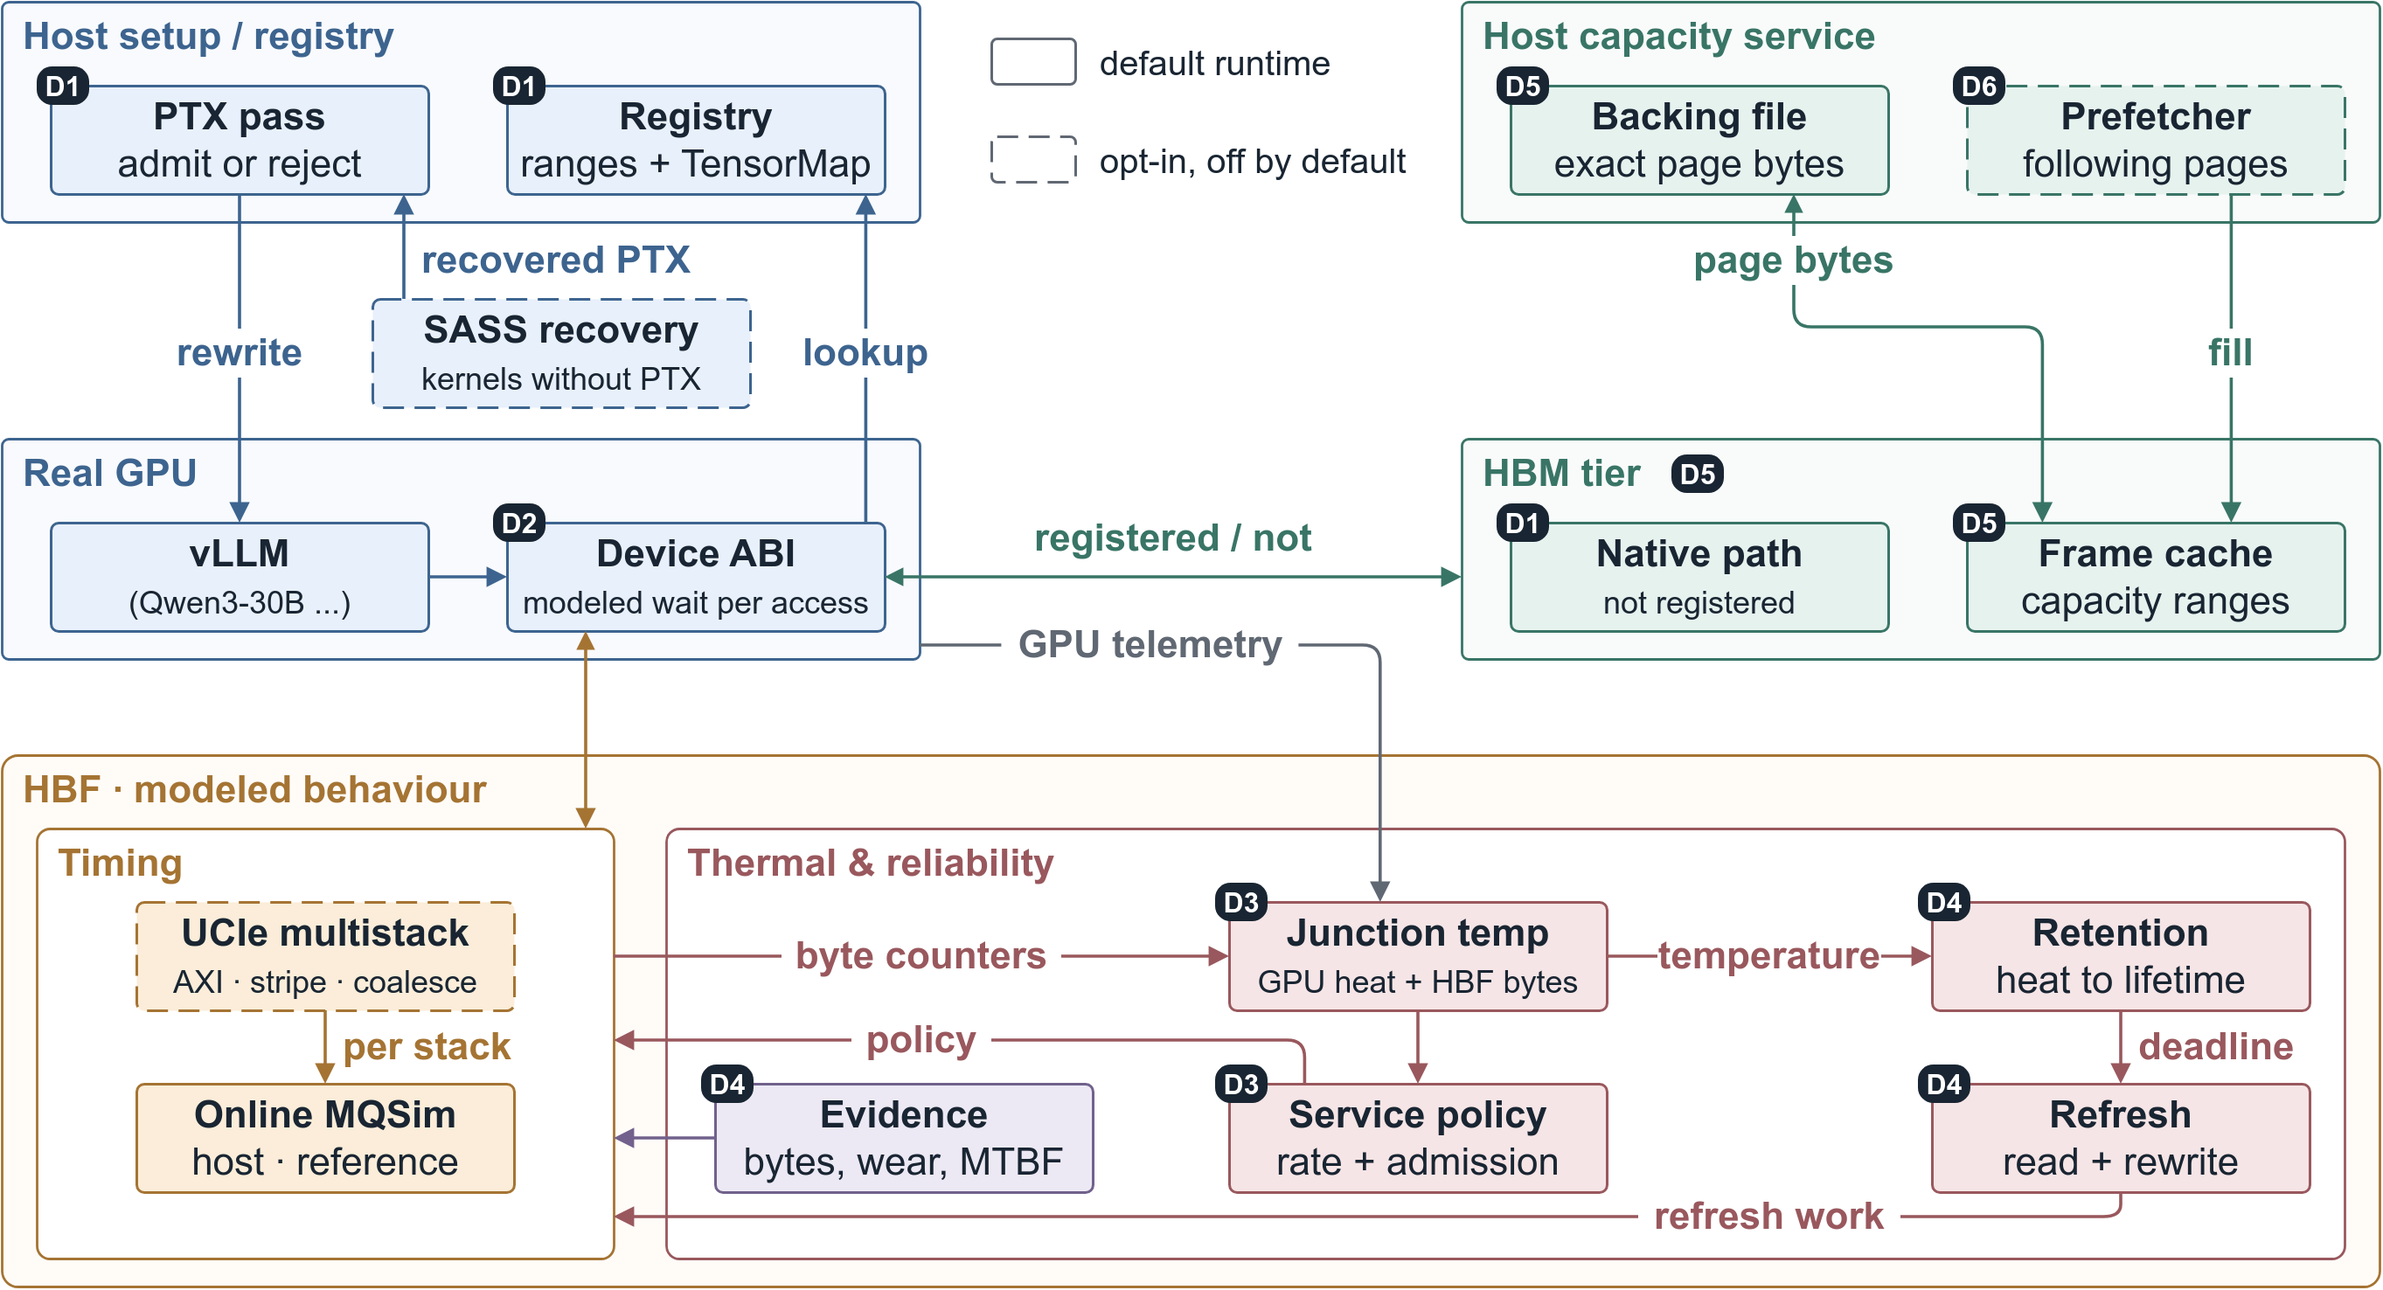
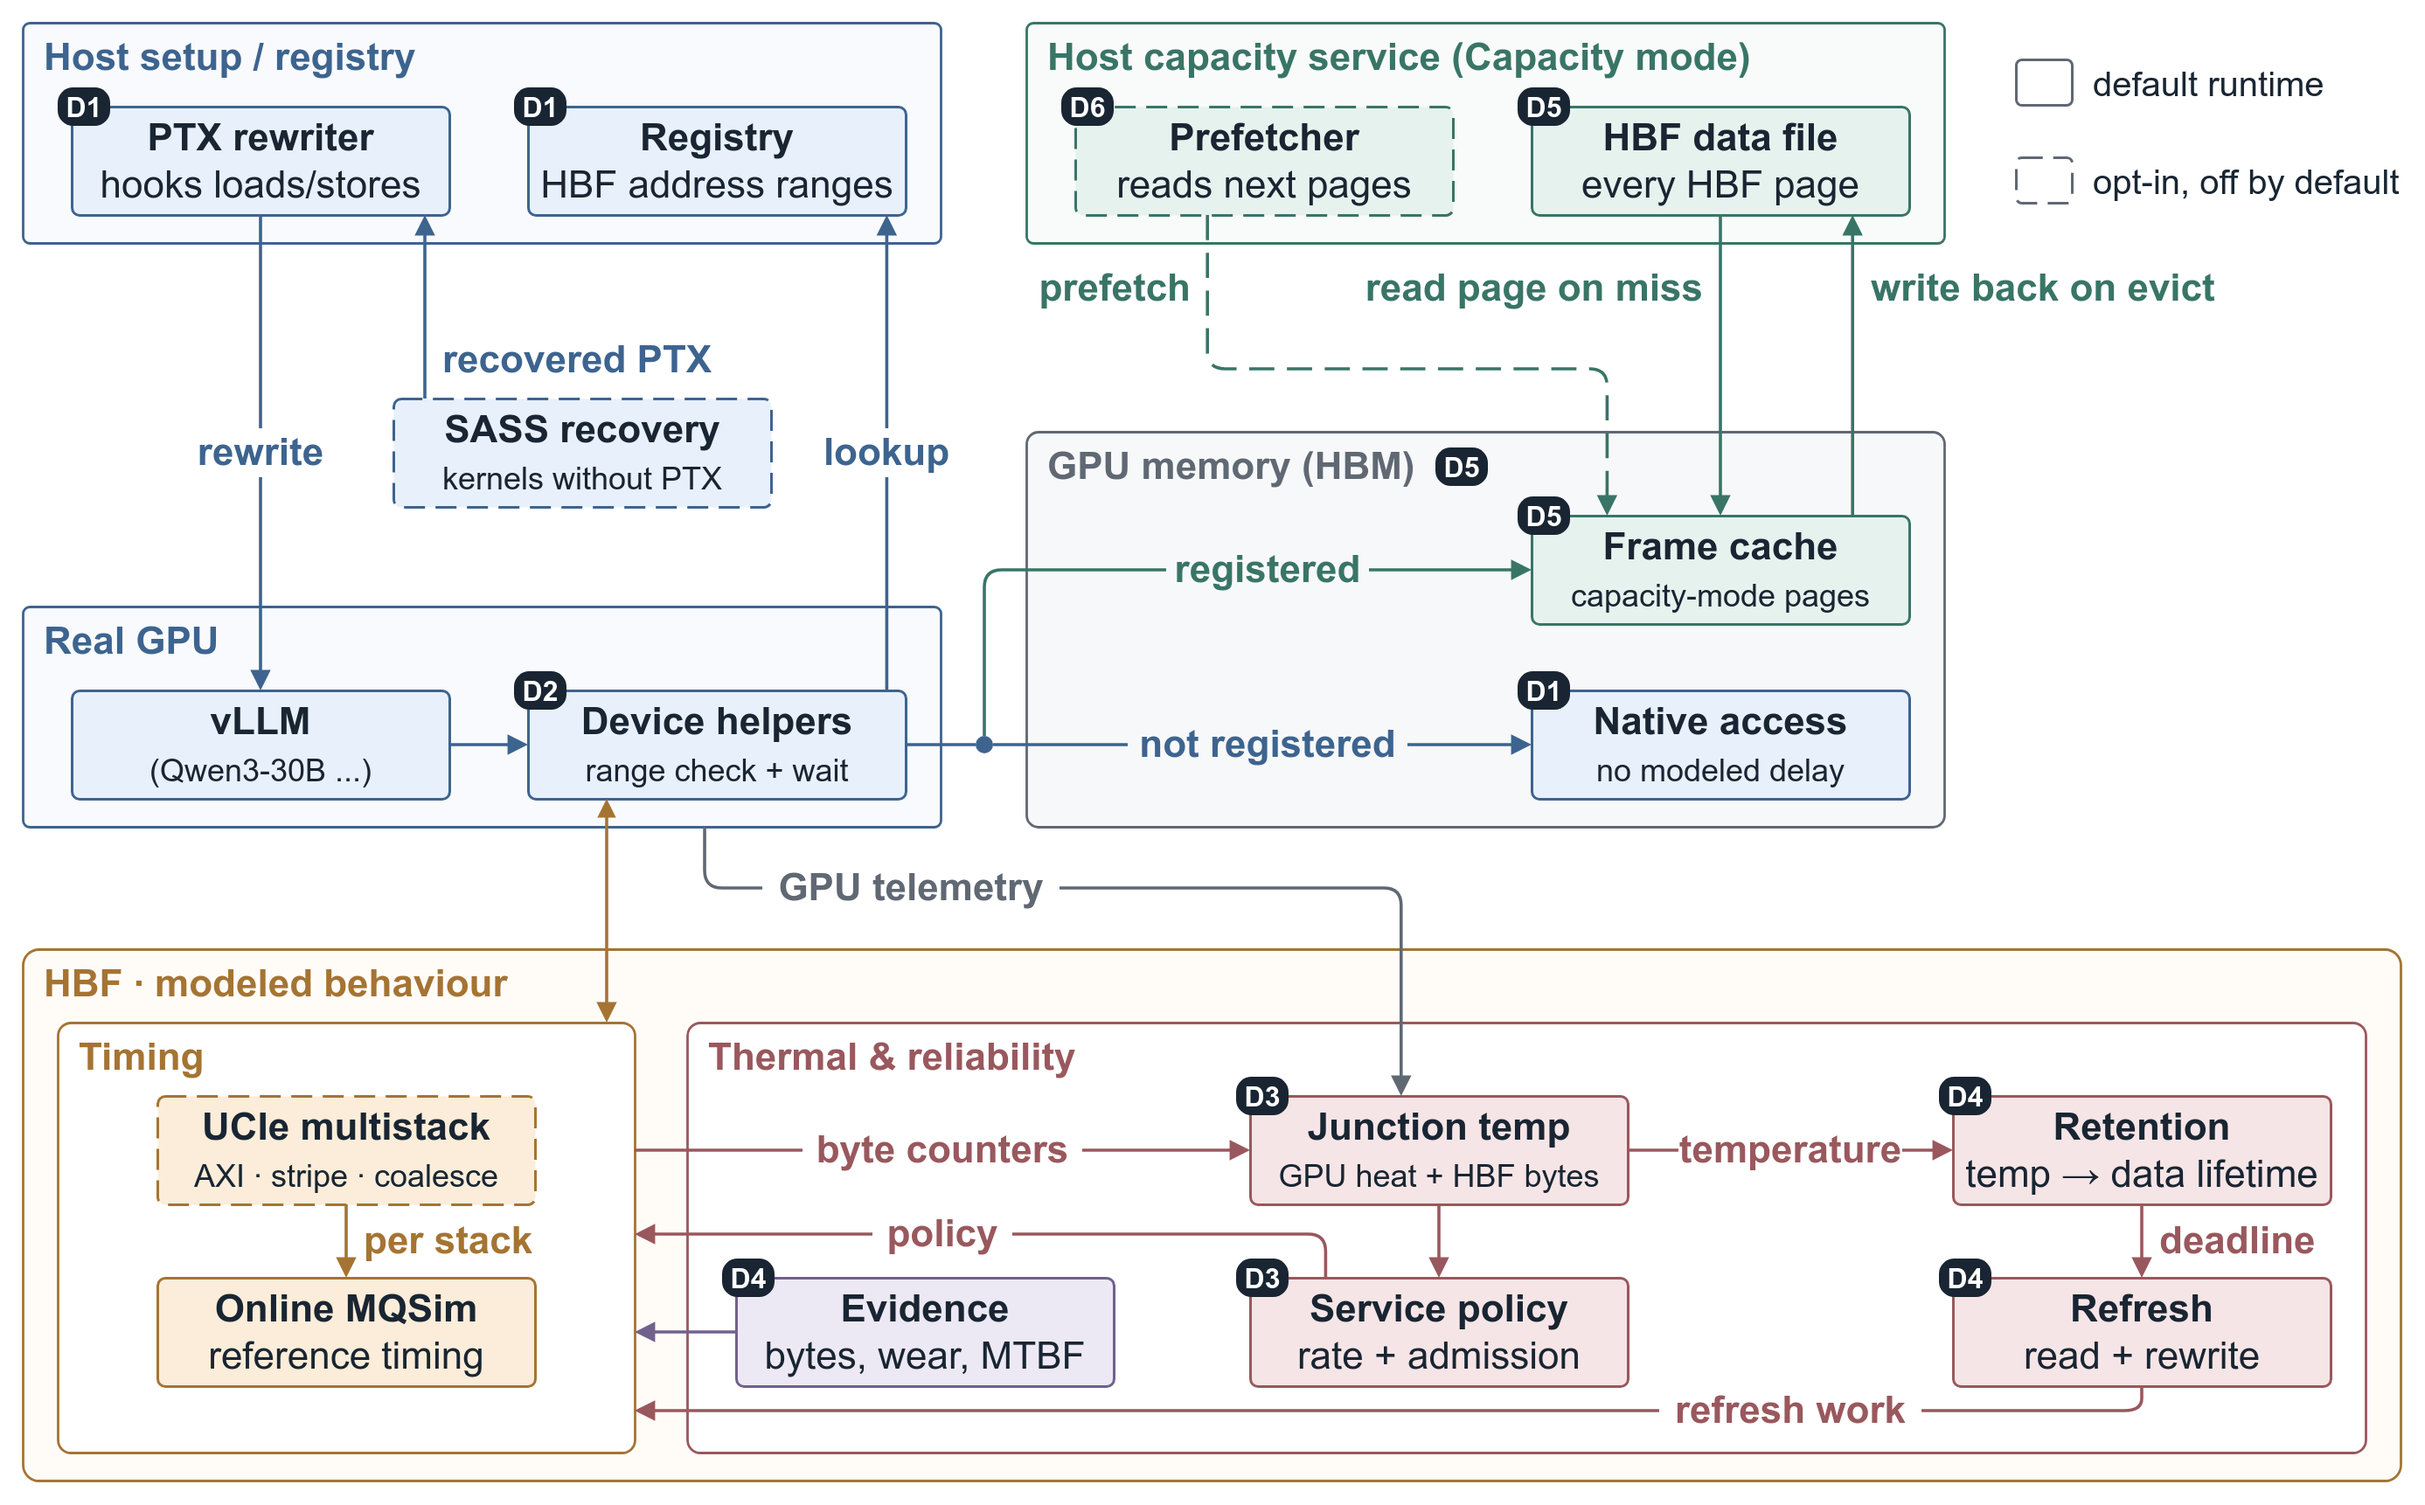
docs: architecture figure V5 with registered / not registered branches
Split the registered / not registered decision into two branches (Frame cache and
Native access, now stacked), group them under "GPU memory (HBM)", mark the host
capacity service as Capacity-mode only, rename the backing file to "HBF data file",
and label the two file arrows "read page on miss" and "write back on evict".
The caption now notes that the Frame cache branch applies to Capacity mode.

diff --git a/README.md b/README.md
@@ -138,10 +138,10 @@ Industry evaluations of HBF do not agree, and each draws its conclusions from it
 ## Overall architecture
 
 <div align="center">
-  <img src="docs/assets/hbfsim-architecture.png" alt="HBFSim architecture: host-side registration and PTX instrumentation, real GPU execution, GPU memory and the file-backed capacity tier, and online HBF timing and thermal models" width="900">
+  <img src="docs/assets/hbfsim-architecture.png" alt="HBFSim architecture: host-side registration and PTX rewriting; on the real GPU, accesses split into two branches by whether they fall in a registered HBF address range: in Capacity mode a registered access is served by the frame cache in GPU memory, which the host capacity service fills from the HBF data file on a miss, and an unregistered access keeps its native path; below are the online HBF timing and thermal models" width="900">
 </div>
 
-**The host side determines which accesses need to be modeled, the real GPU executes the computation, and the HBF model provides media service time and capacity behavior.** In the figure, solid boxes denote default runtime components and dashed boxes denote optional or experimental components; for the specific conditions to enable each component, see [Features and configuration](#configuration).
+**The host side determines which accesses need to be modeled, the real GPU executes the computation, and the HBF model provides media service time and capacity behavior.** In the figure, solid boxes denote default runtime components and dashed boxes denote optional or experimental components; for the specific conditions to enable each component, see [Features and configuration](#configuration). In the figure, the registered branch to Frame cache applies to Capacity mode; in Timing-only mode, a registered access also keeps its data in place in GPU memory, and only the wait in Device helpers adds the modeled delay.
 
 <a id="methodology"></a>
 ## Why traditional evaluation methods cannot be reused
